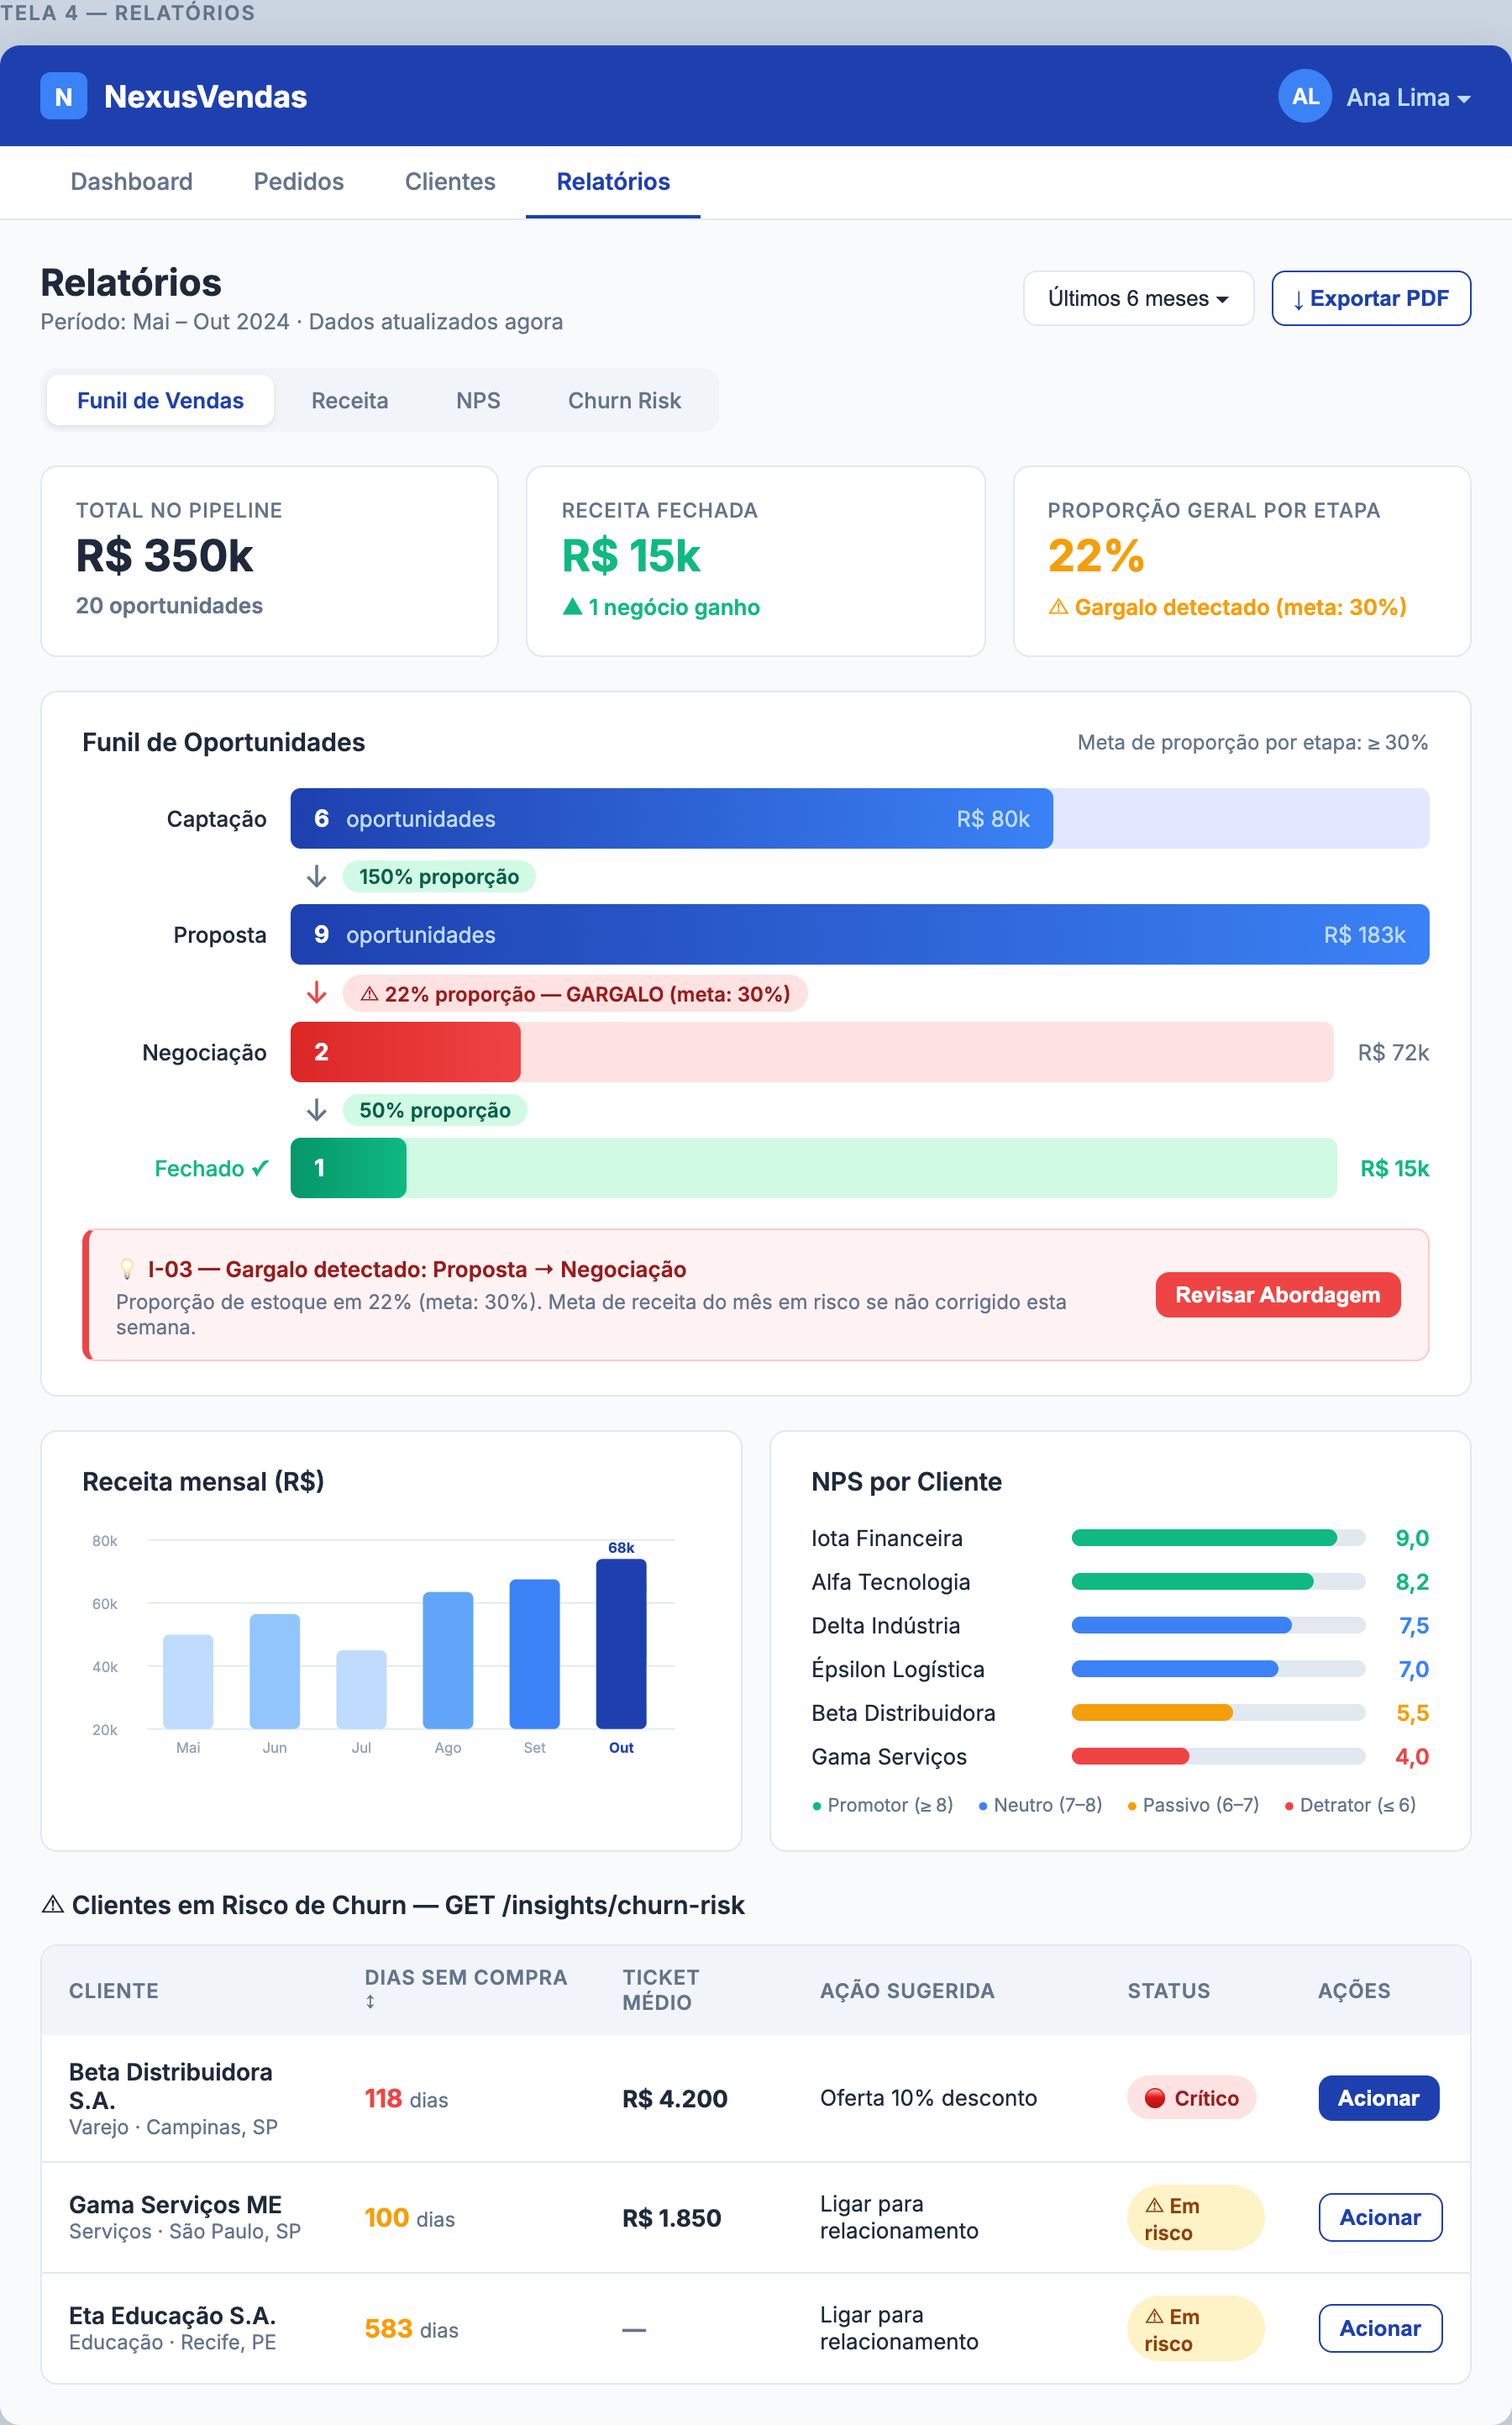
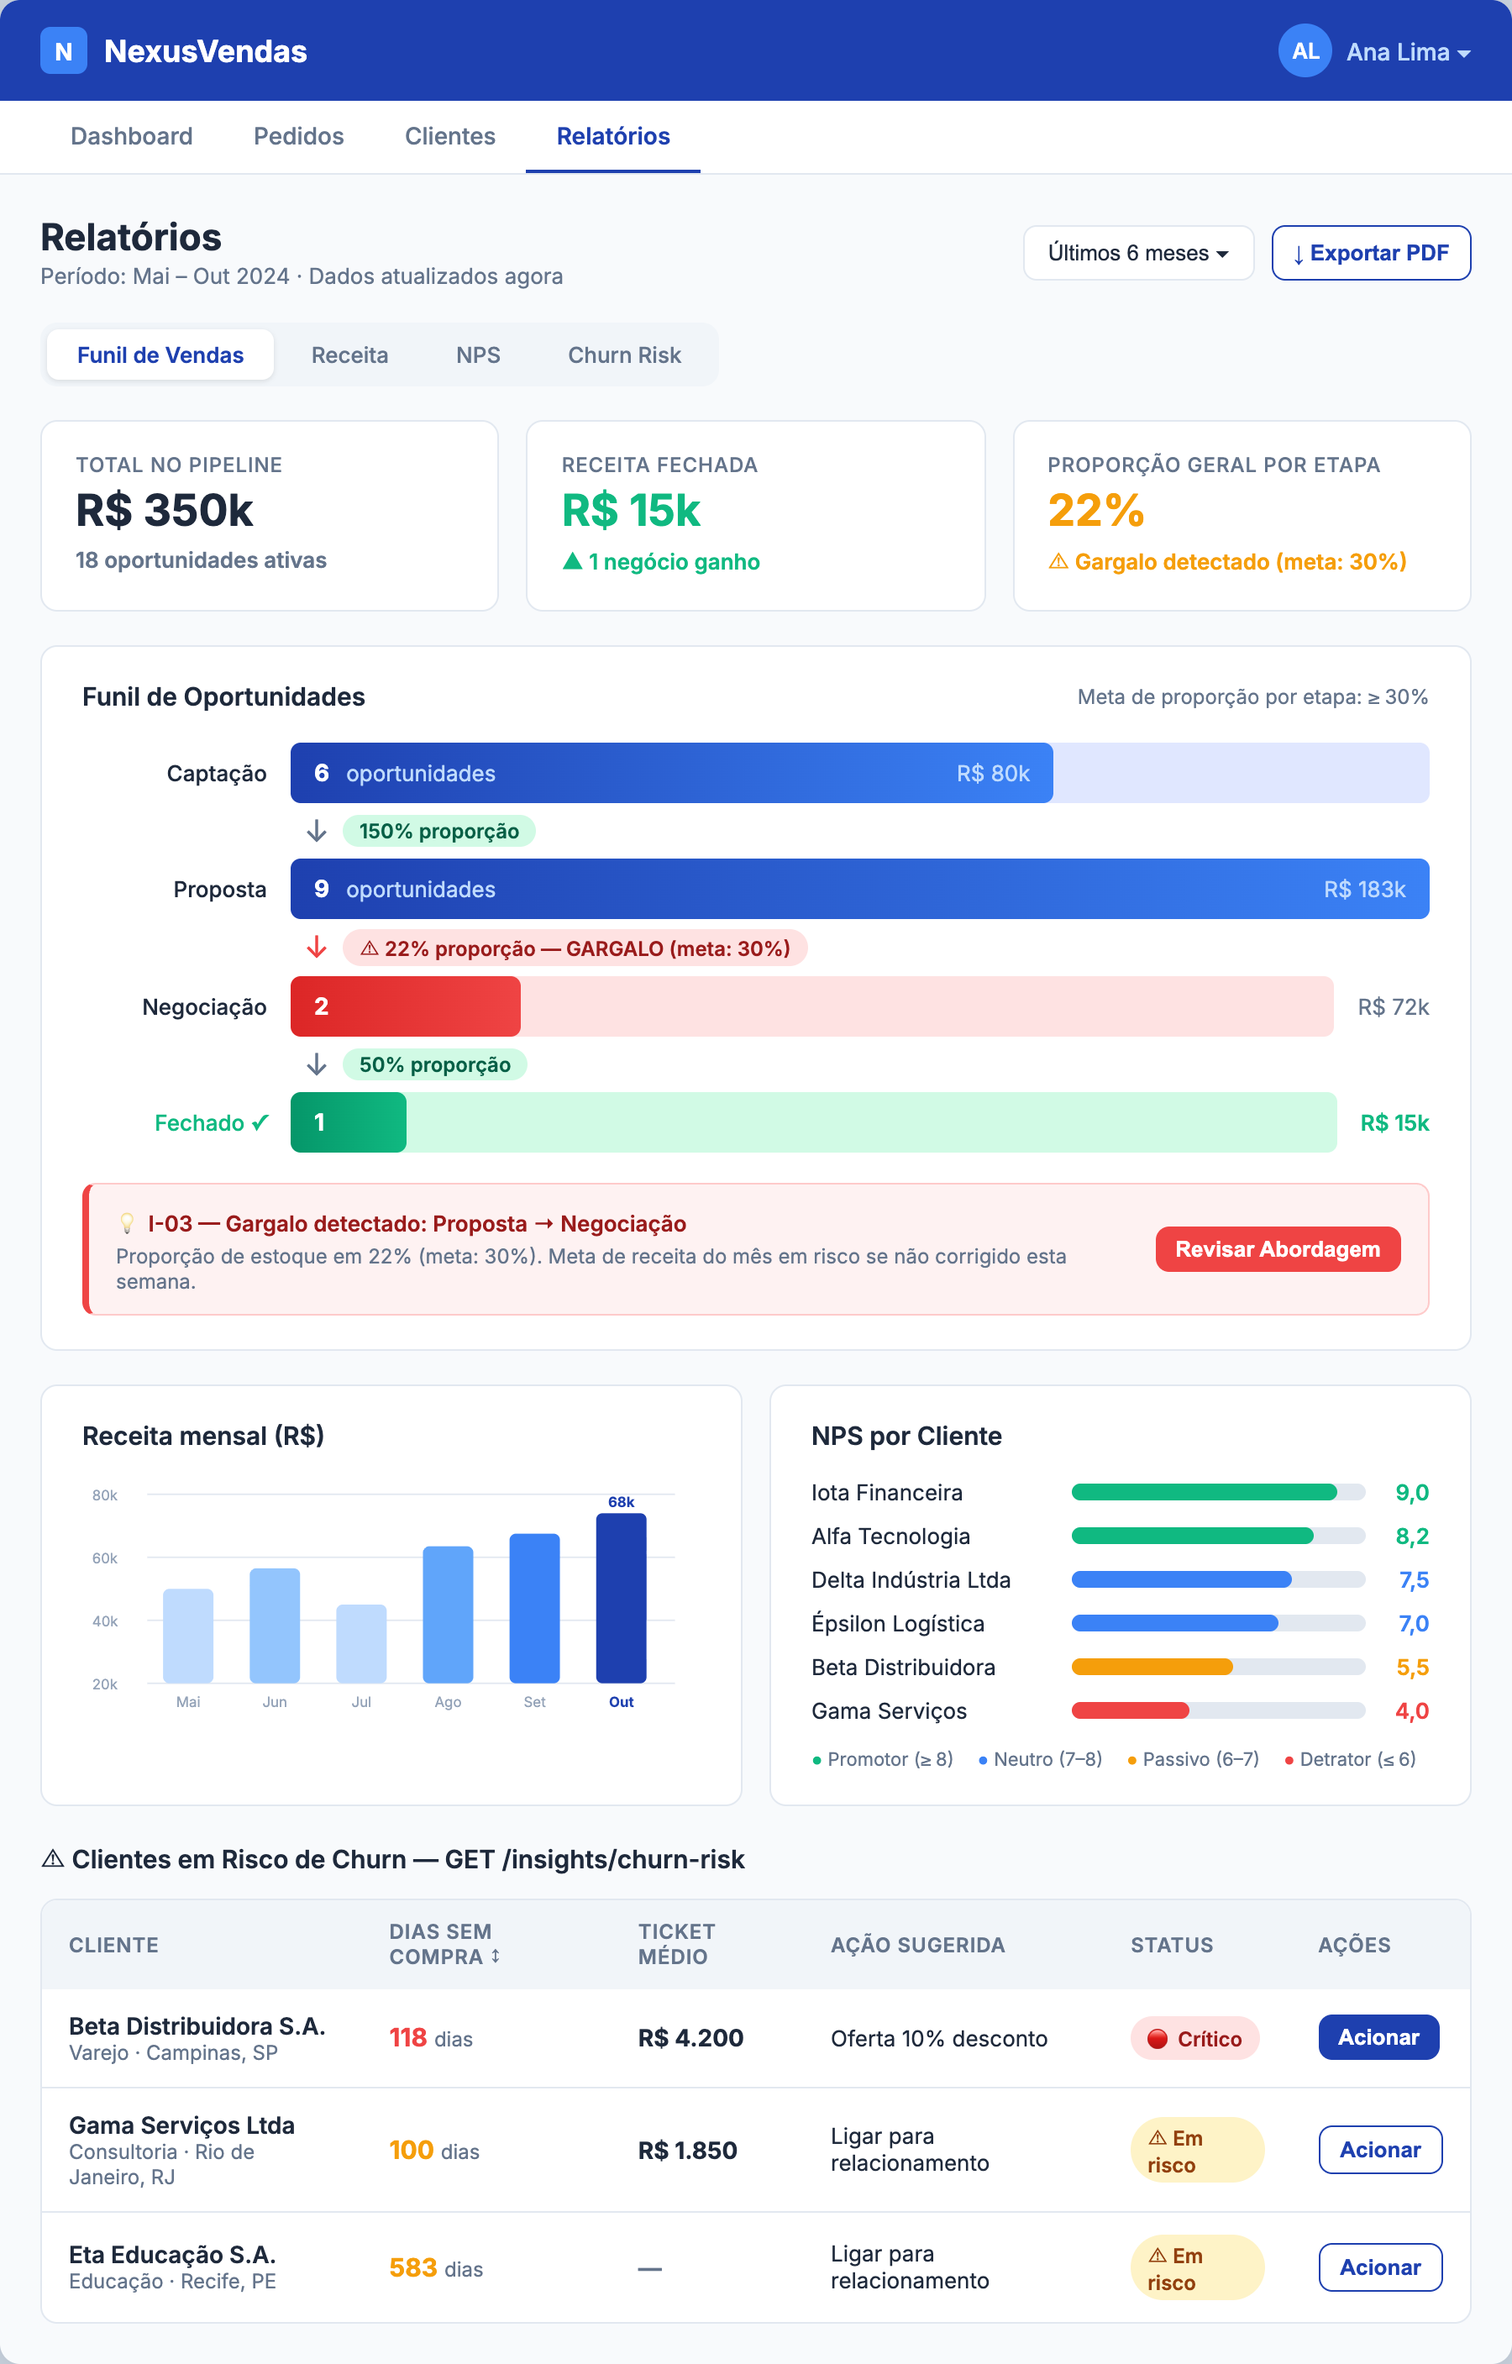
fix: corrige layout das telas e regenera screenshots sem corte
- telas/tela-*.html: .screen de width fixa (900px) para max-width responsivo; body align-items center → stretch com .screen-wrapper centralizado por margin:auto — elimina corte horizontal em qualquer viewport
- screenshot-screens.js: captura elemento .screen diretamente (não fullPage) para garantir screenshot sem fundo cinza cortado
- screenshots/tela-*.png: 6 imagens regeneradas, completas e sem cropping

diff --git a/screenshot-screens.js b/screenshot-screens.js
@@ -1,19 +1,20 @@
 #!/usr/bin/env node
 /**
- * Captura cada tela do wireframes.html como PNG individual.
+ * Captura cada tela individual como PNG.
  * Uso:
  *   npm install puppeteer        (apenas na primeira vez)
  *   node screenshot-screens.js
  *
- * Saída: ./screenshots/tela-1.png … tela-6.png  (2560×1600 @2x)
+ * Saída: ./screenshots/tela-1.png … tela-6.png  (1280×900 @2x)
  */
 
 const puppeteer = require('puppeteer');
 const path = require('path');
 const fs = require('fs');
 
-const HTML_FILE = path.resolve(__dirname, 'wireframes.html');
+const TELAS_DIR = path.resolve(__dirname, 'telas');
 const OUT_DIR   = path.resolve(__dirname, 'screenshots');
+const TELAS     = [1, 2, 3, 4, 5, 6];
 
 (async () => {
   fs.mkdirSync(OUT_DIR, { recursive: true });
@@ -21,25 +22,27 @@ const OUT_DIR   = path.resolve(__dirname, 'screenshots');
   const browser = await puppeteer.launch({ headless: 'new' });
   const page    = await browser.newPage();
 
+  // Viewport generoso — o .screen (max-width 900px) sempre cabe
   await page.setViewport({ width: 1280, height: 900, deviceScaleFactor: 2 });
-  await page.goto(`file://${HTML_FILE}`, { waitUntil: 'networkidle0' });
 
-  const wrappers = await page.$$('.screen-wrapper');
+  for (const n of TELAS) {
+    const htmlFile = path.join(TELAS_DIR, `tela-${n}.html`);
+    const outFile  = path.join(OUT_DIR,   `tela-${n}.png`);
 
-  if (wrappers.length === 0) {
-    console.error('Nenhum .screen-wrapper encontrado em wireframes.html');
-    await browser.close();
-    process.exit(1);
-  }
+    await page.goto(`file://${htmlFile}`, { waitUntil: 'networkidle0' });
 
-  for (let i = 0; i < wrappers.length; i++) {
-    const label   = await wrappers[i].$eval('.screen-label', el => el.textContent.trim()).catch(() => `Tela ${i + 1}`);
-    const outFile = path.join(OUT_DIR, `tela-${i + 1}.png`);
+    // Captura apenas o elemento .screen, ignorando padding/fundo do body
+    const screenEl = await page.$('.screen');
+    if (screenEl) {
+      await screenEl.screenshot({ path: outFile });
+    } else {
+      // fallback: página inteira
+      await page.screenshot({ path: outFile, fullPage: false });
+    }
 
-    await wrappers[i].screenshot({ path: outFile });
-    console.log(`✓ tela-${i + 1}.png  —  ${label}`);
+    console.log(`✓ tela-${n}.png`);
   }
 
   await browser.close();
-  console.log(`\nPronto. ${wrappers.length} imagens em ${OUT_DIR}`);
+  console.log(`\nPronto. ${TELAS.length} imagens em ${OUT_DIR}`);
 })();

diff --git a/telas/tela-1.html b/telas/tela-1.html
@@ -30,7 +30,7 @@
     display: flex;
     flex-direction: column;
     gap: 64px;
-    align-items: center;
+    align-items: stretch;
   }
 
   /* ── Section labels ── */
@@ -44,8 +44,9 @@
   }
 
   /* ── Screen wrapper ── */
+    .screen-wrapper { width: 100%; max-width: 900px; margin: 0 auto; }
   .screen {
-    width: 900px;
+    width: 100%;
     background: var(--bg);
     border-radius: 12px;
     overflow: hidden;

diff --git a/telas/tela-2.html b/telas/tela-2.html
@@ -30,7 +30,7 @@
     display: flex;
     flex-direction: column;
     gap: 64px;
-    align-items: center;
+    align-items: stretch;
   }
 
   /* ── Section labels ── */
@@ -44,8 +44,9 @@
   }
 
   /* ── Screen wrapper ── */
+    .screen-wrapper { width: 100%; max-width: 900px; margin: 0 auto; }
   .screen {
-    width: 900px;
+    width: 100%;
     background: var(--bg);
     border-radius: 12px;
     overflow: hidden;

diff --git a/telas/tela-3.html b/telas/tela-3.html
@@ -30,7 +30,7 @@
     display: flex;
     flex-direction: column;
     gap: 64px;
-    align-items: center;
+    align-items: stretch;
   }
 
   /* ── Section labels ── */
@@ -44,8 +44,9 @@
   }
 
   /* ── Screen wrapper ── */
+    .screen-wrapper { width: 100%; max-width: 900px; margin: 0 auto; }
   .screen {
-    width: 900px;
+    width: 100%;
     background: var(--bg);
     border-radius: 12px;
     overflow: hidden;

diff --git a/telas/tela-4.html b/telas/tela-4.html
@@ -30,7 +30,7 @@
     display: flex;
     flex-direction: column;
     gap: 64px;
-    align-items: center;
+    align-items: stretch;
   }
 
   /* ── Section labels ── */
@@ -44,8 +44,9 @@
   }
 
   /* ── Screen wrapper ── */
+    .screen-wrapper { width: 100%; max-width: 900px; margin: 0 auto; }
   .screen {
-    width: 900px;
+    width: 100%;
     background: var(--bg);
     border-radius: 12px;
     overflow: hidden;

diff --git a/telas/tela-5.html b/telas/tela-5.html
@@ -30,7 +30,7 @@
     display: flex;
     flex-direction: column;
     gap: 64px;
-    align-items: center;
+    align-items: stretch;
   }
 
   /* ── Section labels ── */
@@ -44,8 +44,9 @@
   }
 
   /* ── Screen wrapper ── */
+    .screen-wrapper { width: 100%; max-width: 900px; margin: 0 auto; }
   .screen {
-    width: 900px;
+    width: 100%;
     background: var(--bg);
     border-radius: 12px;
     overflow: hidden;

diff --git a/telas/tela-6.html b/telas/tela-6.html
@@ -30,7 +30,7 @@
     display: flex;
     flex-direction: column;
     gap: 64px;
-    align-items: center;
+    align-items: stretch;
   }
 
   /* ── Section labels ── */
@@ -44,8 +44,9 @@
   }
 
   /* ── Screen wrapper ── */
+    .screen-wrapper { width: 100%; max-width: 900px; margin: 0 auto; }
   .screen {
-    width: 900px;
+    width: 100%;
     background: var(--bg);
     border-radius: 12px;
     overflow: hidden;
